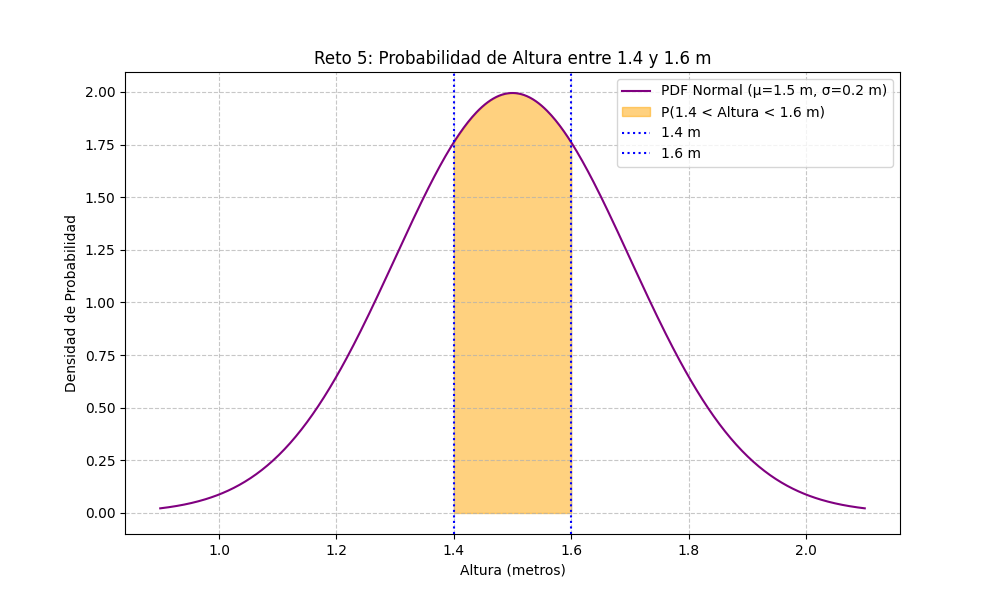
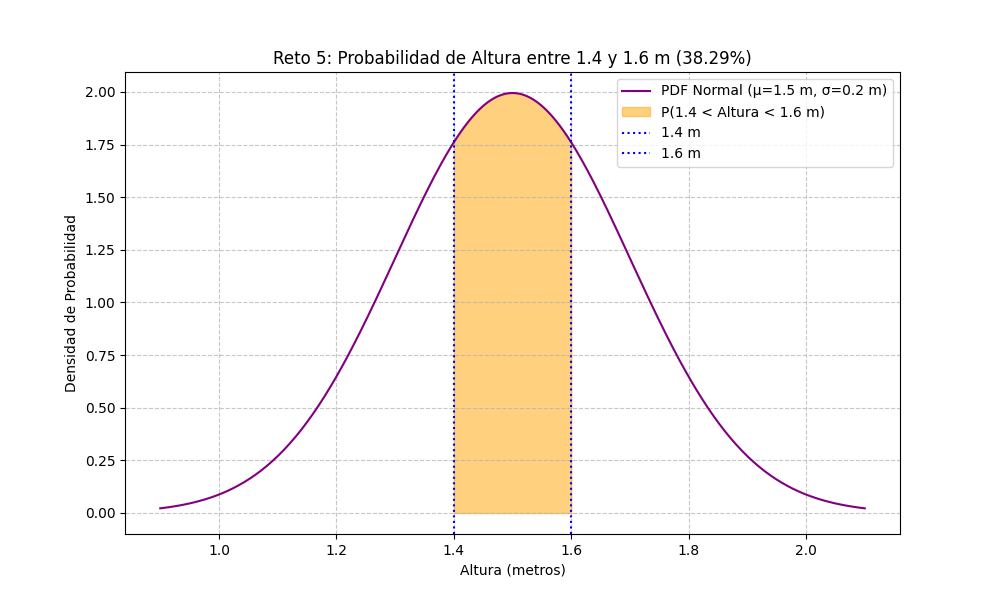
ok

Changed region(s): [[0.279, 0.09, 0.744, 0.12]]

diff --git a/modulo5/reto25.py b/modulo5/reto25.py
@@ -337,7 +337,7 @@ np.random.seed(42) # Para reproducibilidad
 num_mediciones_r5 = 200
 mediciones_altura_simuladas_r5 = np.random.normal(loc=media_altura_r5, scale=sigma_altura_r5, size=num_mediciones_r5)
 
-print("\nPrimeras 10 mediciones de altura simuladas (Reto 5):")
+print("\nPrimeros 10 mediciones de altura simuladas (Reto 5):")
 print(mediciones_altura_simuladas_r5[:10].round(2))
 
 plt.figure(figsize=(10, 6))
@@ -370,7 +370,7 @@ prob_entre_1_4_y_1_6_r5 = norm.cdf(limite_superior_r5, loc=media_altura_r5, scal
                        norm.cdf(limite_inferior_r5, loc=media_altura_r5, scale=sigma_altura_r5)
 print(f"\nReto 5: Probabilidad de que una medición esté entre {limite_inferior_r5} y {limite_superior_r5} m: {prob_entre_1_4_y_1_6_r5:.4f}")
 
-# 5. Sombrear el área correspondiente en la curva
+# 5. Sombrear el área correspondiente en la curva (con porcentaje en el título)
 plt.figure(figsize=(10, 6))
 plt.plot(x_pdf_r5, pdf_teorica_r5, color='purple', label=f'PDF Normal (μ={media_altura_r5} m, σ={sigma_altura_r5} m)')
 x_sombreado_r5 = np.linspace(limite_inferior_r5, limite_superior_r5, 100)
@@ -379,7 +379,7 @@ plt.fill_between(x_sombreado_r5, 0, norm.pdf(x_sombreado_r5, loc=media_altura_r5
 plt.axvline(x=limite_inferior_r5, color='blue', linestyle=':', label=f'{limite_inferior_r5} m')
 plt.axvline(x=limite_superior_r5, color='blue', linestyle=':', label=f'{limite_superior_r5} m')
 
-plt.title(f'Reto 5: Probabilidad de Altura entre {limite_inferior_r5} y {limite_superior_r5} m')
+plt.title(f'Reto 5: Probabilidad de Altura entre {limite_inferior_r5} y {limite_superior_r5} m ({prob_entre_1_4_y_1_6_r5:.2%})')
 plt.xlabel('Altura (metros)')
 plt.ylabel('Densidad de Probabilidad')
 plt.grid(True, linestyle='--', alpha=0.7)
@@ -387,20 +387,56 @@ plt.legend()
 plt.savefig(os.path.join(output_dir_r5, 'reto5_prob_altura_rango.png')) # Guardar figura
 plt.show()
 
+# --- Nuevo gráfico combinado para Reto 5 ---
+plt.figure(figsize=(12, 7))
+plt.plot(x_pdf_r5, pdf_teorica_r5, color='purple', linewidth=2, label=f'PDF Normal (μ={media_altura_r5} m, σ={sigma_altura_r5} m)')
+
+# Línea de la media
+plt.axvline(x=media_altura_r5, color='gray', linestyle='--', label=f'Media (μ = {media_altura_r5} m)')
+
+# Líneas de los límites y área sombreada
+plt.axvline(x=limite_inferior_r5, color='blue', linestyle=':', label=f'Límite Inferior ({limite_inferior_r5} m)')
+plt.axvline(x=limite_superior_r5, color='blue', linestyle=':', label=f'Límite Superior ({limite_superior_r5} m)')
+plt.fill_between(x_sombreado_r5, 0, norm.pdf(x_sombreado_r5, loc=media_altura_r5, scale=sigma_altura_r5),
+                 color='orange', alpha=0.5, label=f'Área de Probabilidad ({prob_entre_1_4_y_1_6_r5:.2%})')
+
+# Añadir el porcentaje de probabilidad en el gráfico
+plt.text(media_altura_r5, norm.pdf(media_altura_r5, loc=media_altura_r5, scale=sigma_altura_r5) * 0.5,
+         f'{prob_entre_1_4_y_1_6_r5:.2%}', horizontalalignment='center', color='darkgreen', fontsize=12,
+         bbox=dict(facecolor='white', alpha=0.7, edgecolor='none', boxstyle='round,pad=0.5'))
+
+plt.title('Reto 5: Análisis Completo de la Altura de Colados de Concreto')
+plt.xlabel('Altura (metros)')
+plt.ylabel('Densidad de Probabilidad')
+plt.grid(True, linestyle='--', alpha=0.7)
+plt.legend()
+plt.savefig(os.path.join(output_dir_r5, 'reto5_analisis_completo.png')) # Guardar figura
+plt.show()
+
 # 6. Evaluar si el proceso es lo suficientemente preciso
 print("\nReto 5: Evaluación de la Precisión del Proceso:")
-if prob_entre_1_4_y_1_6_r5 > 0.60:
-    print(f"La probabilidad de que una medición esté entre {limite_inferior_r5} y {limite_superior_r5} m es del {prob_entre_1_4_y_1_6_r5:.2%}.")
+print(f"La probabilidad de que una medición esté entre {limite_inferior_r5} y {limite_superior_r5} m es del {prob_entre_1_4_y_1_6_r5:.2%}.")
+
+if prob_entre_1_4_y_1_6_r5 > 0.60: # Umbral de ejemplo para "preciso"
     print("Esto indica que una gran proporción de los colados está dentro del rango deseado. El proceso tiene")
     print("una precisión aceptable para el objetivo de estar cerca de 1.5m, si la tolerancia de +/- 0.1m es adecuada.")
     print("La mayoría de los valores caen dentro de este rango, lo cual es positivo.")
 else:
-    print(f"La probabilidad de que una medición esté entre {limite_inferior_r5} y {limite_superior_r5} m es del {prob_entre_1_4_y_1_6_r5:.2%}.")
     print("Esto sugiere que el proceso podría no ser lo suficientemente preciso para mantener consistentemente")
     print("la altura de colado dentro de un rango tan estrecho (1.4m a 1.6m) alrededor de 1.5m.")
     print("Se deberían revisar los equipos de medición, la capacitación del personal o los procedimientos de colado")
     print("para mejorar la precisión y reducir la variabilidad (desviación estándar) y así aumentar la proporción")
     print("de colados dentro del rango objetivo.")
+
+# --- Tabla de Resultados para Reto 5 ---
+resultados_r5 = pd.DataFrame({
+    'Métrica': ['Media (μ)', 'Desviación Estándar (σ)', 'Rango de Interés', 'Probabilidad Calculada', 'Evaluación de Precisión'],
+    'Valor': [f'{media_altura_r5} m', f'{sigma_altura_r5} m', f'{limite_inferior_r5}m a {limite_superior_r5}m',
+              f'{prob_entre_1_4_y_1_6_r5:.2%}',
+              'No es suficientemente preciso para un rango estricto' if prob_entre_1_4_y_1_6_r5 <= 0.60 else 'Precisión aceptable']
+})
+print("\nReto 5: Tabla de Resultados Clave:")
+print(resultados_r5.to_string(index=False)) # to_string para asegurar que se imprima todo el DataFrame
 print("--- FIN RETO 5 ---")
 
 # --- RETO 6: Tiempo de Fraguado de Cemento (Comparación de dos marcas) 🧪 ---
